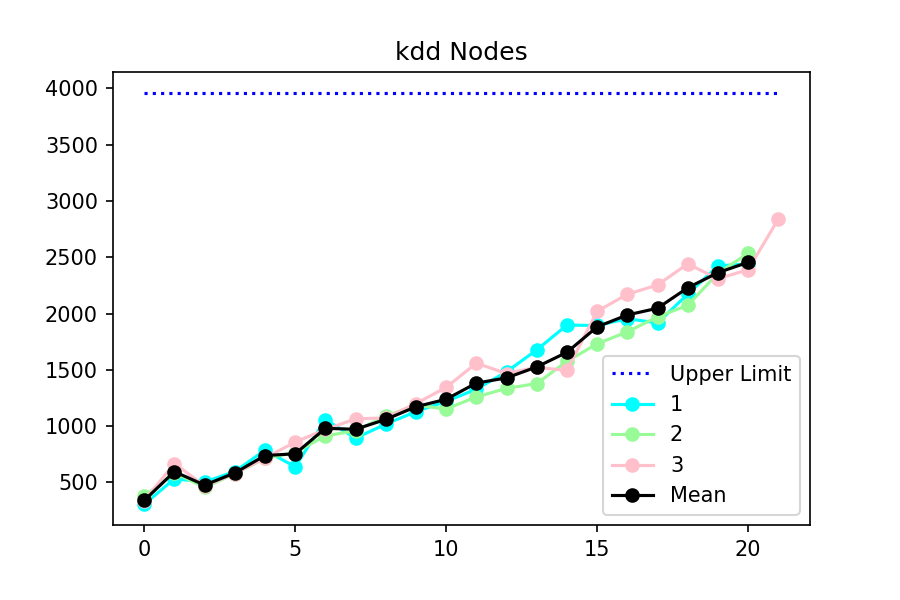
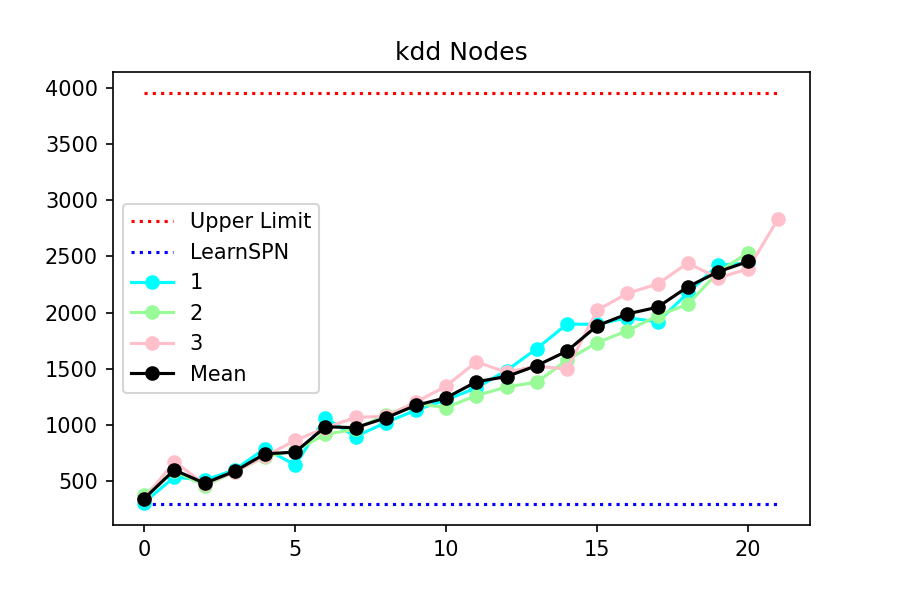
Cross

diff --git a/src/plotcross2.py b/src/plotcross2.py
@@ -5,7 +5,7 @@ import numpy as np
 import matplotlib.pyplot as plt
 
 path = "cross_new"
-datasets = ["msnbc"]
+datasets = ["nltcs", "msnbc", "plants", "kdd", "baudio", "jester", "bnetflix"]
 
 upper = {"nltcs":
 	{"ll": [-6.05057148300942], "n": [2152]},
@@ -21,6 +21,23 @@ upper = {"nltcs":
 	{"ll": [-53.10895478609421]	,	"n": [16118]},
         "bnetflix":
 	{"ll": [-57.05938603881737]	,	"n": [4718]}
+    }
+    
+    
+original = {"nltcs":
+	{"ll": [-6.4208788522751385], "n": [113]},
+        "msnbc":
+	{"ll": [-6.59705998562684],	"n": [42]},
+        "plants":
+	{"ll": [-13.87416406710313],		"n": [3819]},
+        "kdd":
+	{"ll": [-2.2653314792889714],		"n": [287]},
+        "baudio":
+	{"ll": [-43.359889361629534]	,	"n": [329]},
+        "jester":
+	{"ll": [-57.02821489294516]	,	"n": [255]},
+        "bnetflix":
+	{"ll": [-61.299623159930995]	,	"n": [338]}
     }
 
 colors = ["aqua", "palegreen", "pink"]
@@ -42,7 +59,9 @@ for dataset in datasets:
     maxlen = max([len(lls[i]) for i in range(len(lls))])
     total_ll = np.zeros(min([len(lls[i]) for i in range(len(lls))]))
     upperll = [upper[dataset]["ll"]] * maxlen
-    plt.plot(upperll, linestyle="dotted", color ="blue", label="Upper Limit")
+    plt.plot(upperll, linestyle="dotted", color ="red", label="Upper Limit")
+    originalll = [original[dataset]["ll"]] * maxlen
+    plt.plot(originalll, linestyle="dotted", color ="blue", label="LearnSPN")
     for i in range(len(lls)):
     	plt.plot(lls[i], marker="o", color =colors[i], label=(i+1))
     	total_ll += np.array(lls[i][:len(total_ll)])
@@ -56,7 +75,9 @@ for dataset in datasets:
     
     total_nodes = np.zeros(min([len(nodes_k[i]) for i in range(len(nodes_k))]))
     uppern = [upper[dataset]["n"]] * maxlen
-    plt.plot(uppern, linestyle="dotted", color ="blue", label="Upper Limit")
+    plt.plot(uppern, linestyle="dotted", color ="red", label="Upper Limit")
+    originaln = [original[dataset]["n"]] * maxlen
+    plt.plot(originaln, linestyle="dotted", color ="blue", label="LearnSPN")
     for i in range(len(nodes_k)):
     	plt.plot(nodes_k[i], marker="o", color =colors[i], label=(i+1))
     	total_nodes += np.array(nodes_k[i][:len(total_nodes)])
